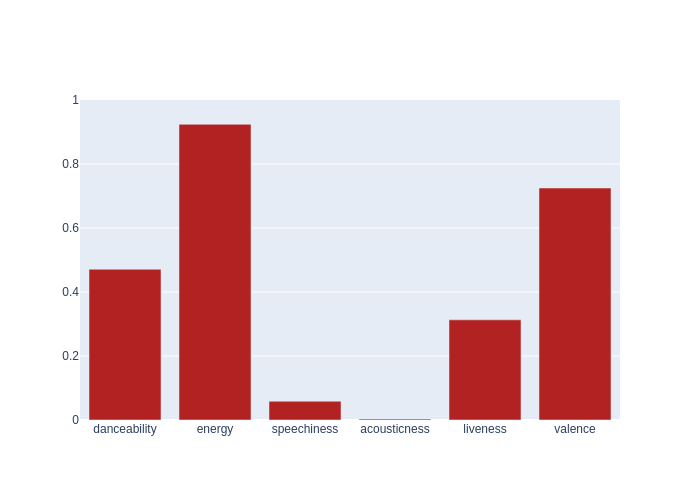
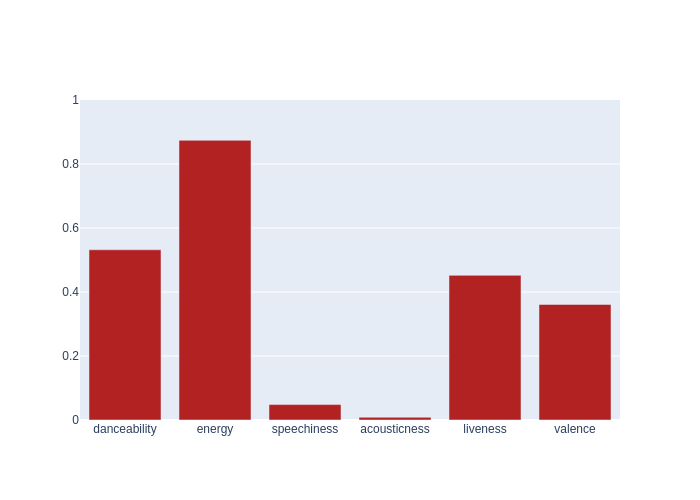
Automated README update

diff --git a/README.md b/README.md
@@ -4,7 +4,7 @@ Automated music metrics for fun, updated hourly.
 
 ## Spotify
 
-- currently listening to **Neon Trees - Everybody Talks**
+- currently listening to **Kavinsky - Nightcall**
 
 - **3099** liked songs
 - **32** playlists
